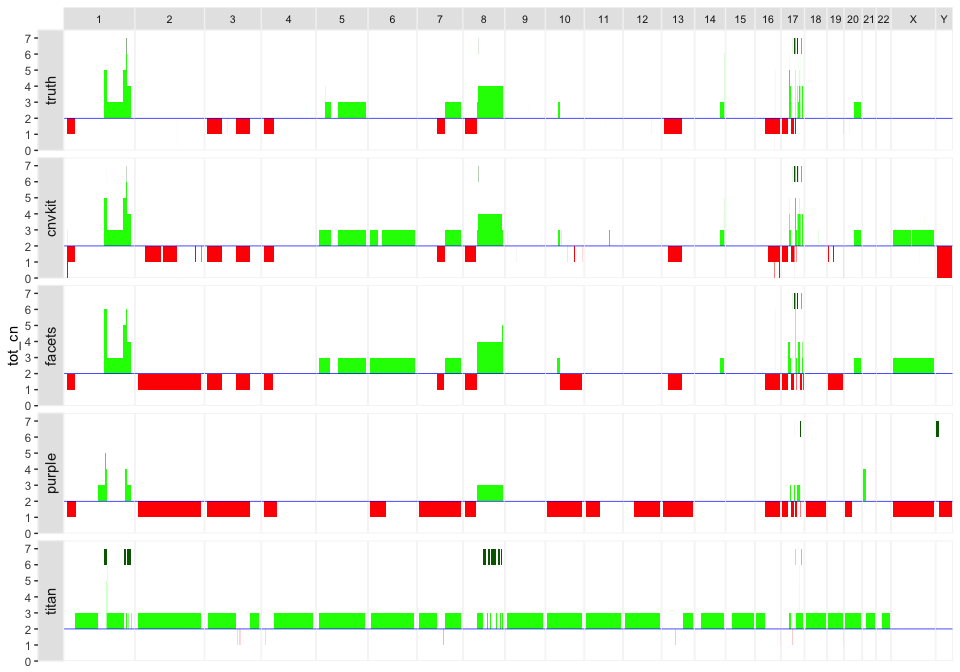
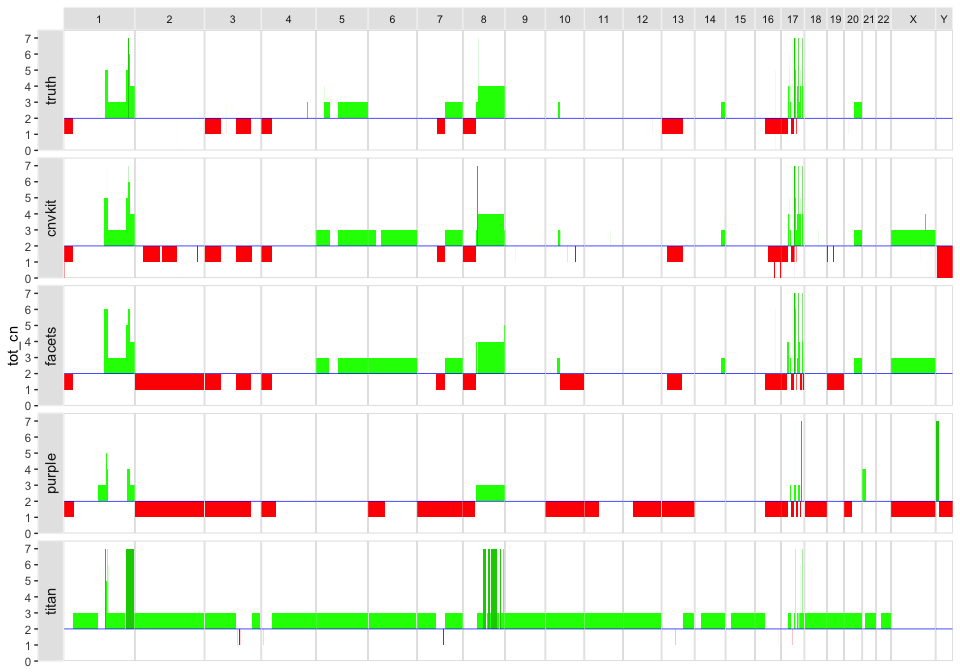
remove x chrom padding
* start lim from 1, not 0
* use expand on x axis for 0 padding
* update readme with zoom

diff --git a/README.md b/README.md
@@ -138,3 +138,15 @@ plot_piano(list(truth = cn_truth, cnvkit = cn_cnvkit, facets = cn_facets, purple
 ```
 
 <img src="man/figures/README-piano-plot-cnvkit-facets-purple-titan1-1.png" width="100%" />
+
+  - You can also zoom into
+chromosomes:
+
+<!-- end list -->
+
+``` r
+plot_piano(list(truth = cn_truth, cnvkit = cn_cnvkit, facets = cn_facets, purple = cn_purple, titan = cn_titan),
+           chromosomes = c("1", "7", "8"))
+```
+
+<img src="man/figures/README-piano-plot-chrom-1.png" width="100%" />
